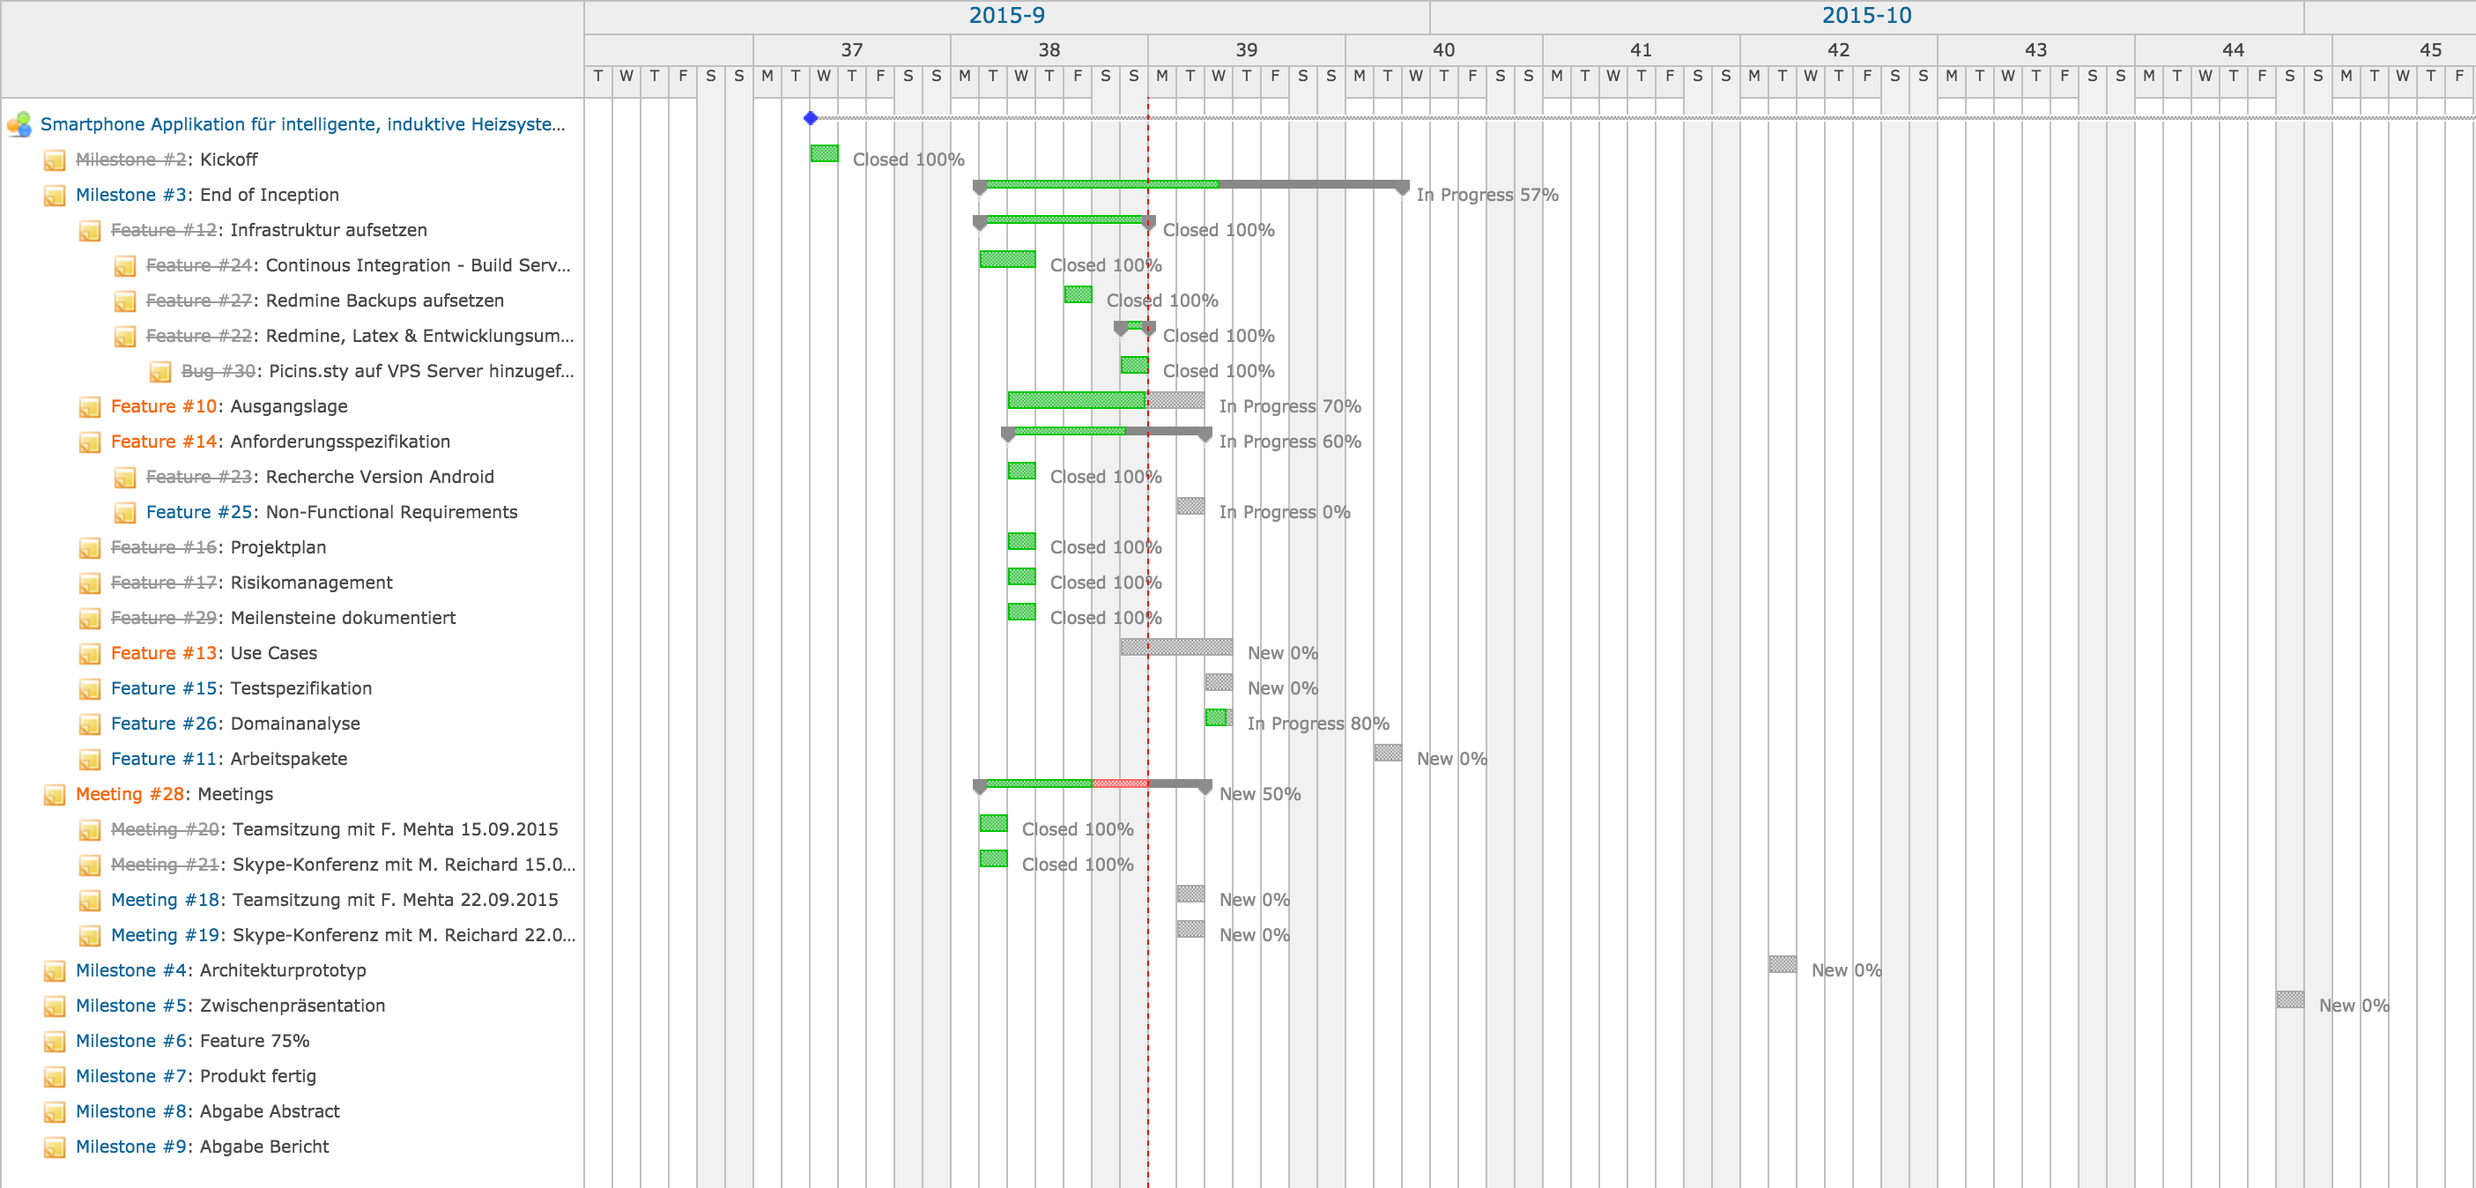
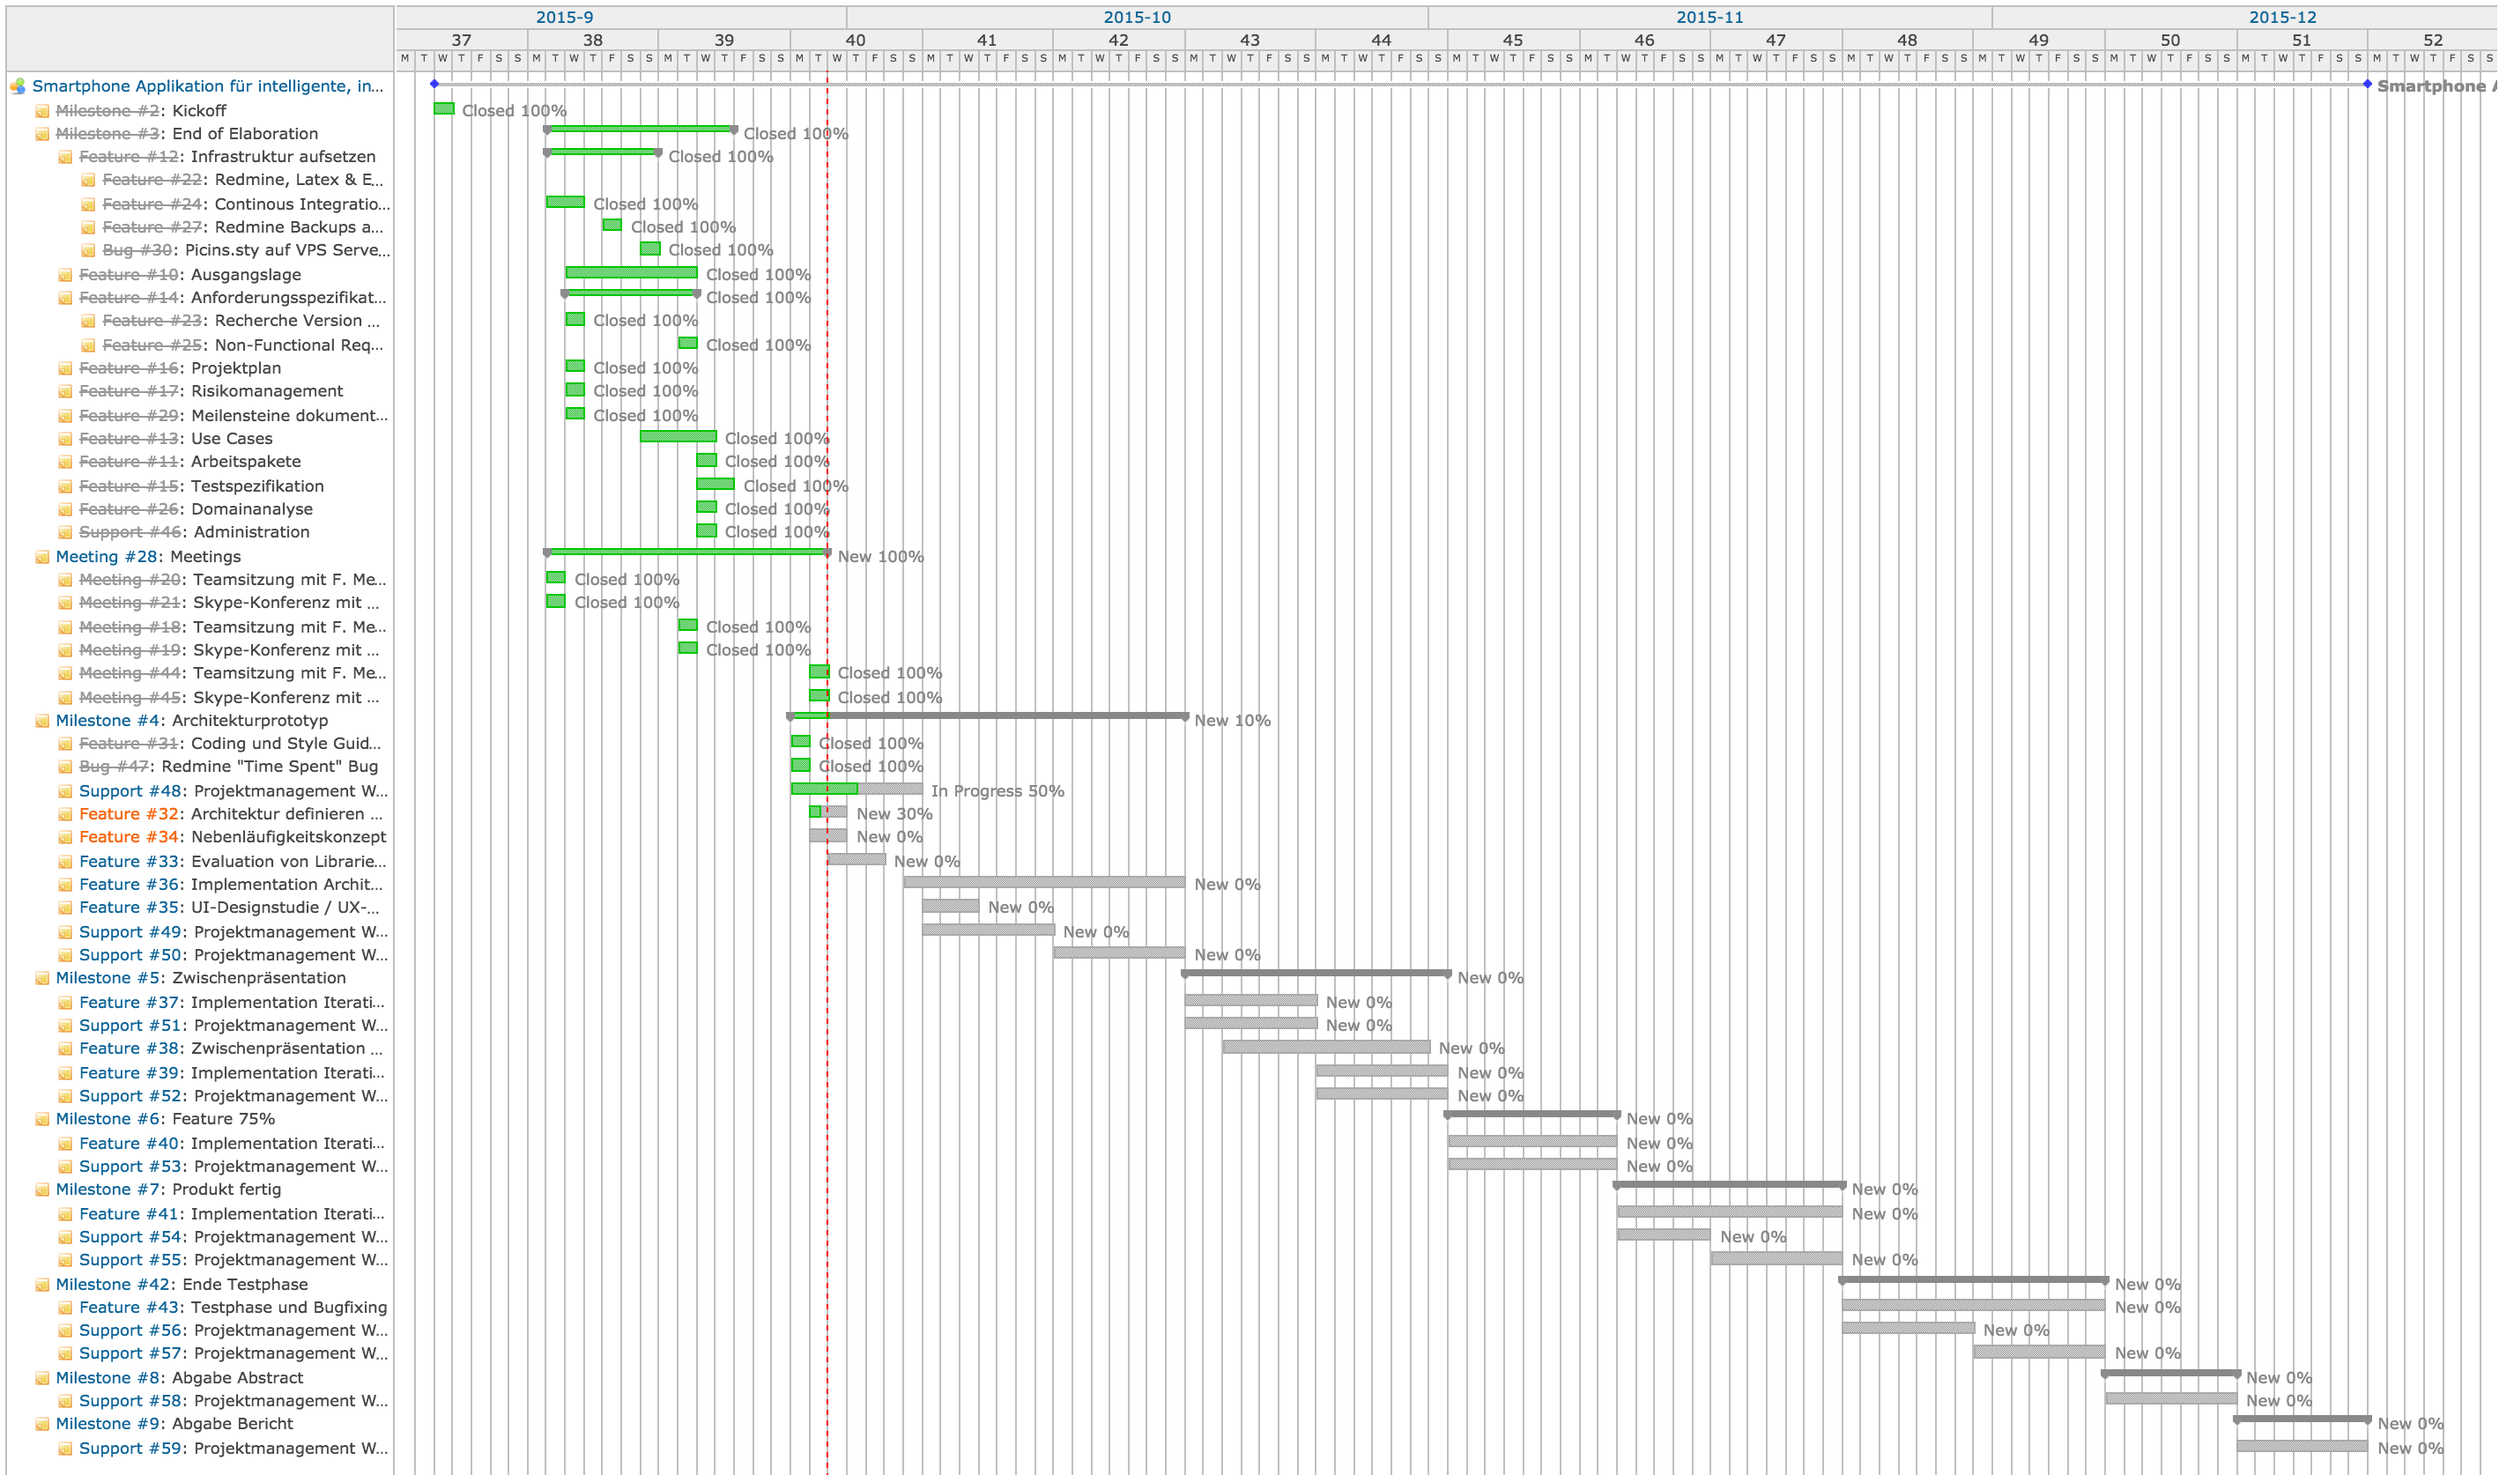
Phase "End of Inception" replaced through "End of Elaboration" according to meeting 29.09. Refreshed Projektplan image.

Changed region(s): [[0.0, 0.0, 1.0, 1.0]]

diff --git a/projectmanagement/meilensteine.tex b/projectmanagement/meilensteine.tex
@@ -8,7 +8,7 @@
 \begin{tabularx}{\textwidth}{ c | l | X | l}
 \textbf{MS} & \textbf{Name} & \textbf{Resultate}  & \textbf{Datum} \\ \hline
 MS1 & Kickoff              & Aufgabenstellung & 09.09.2015 \\ \hline
-MS2 & Ende Inception       & Infrastruktur, Ausgangslage, Anforderungsspezifikation, Projektplan, Risikomanagement, Use Cases, Testspezifikation, Domainanalyse, Arbeitspakete	& 29.09.2015 \\ \hline
+MS2 & Ende Elaboration       & Infrastruktur, Ausgangslage, Anforderungsspezifikation, Projektplan, Risikomanagement, Use Cases, Testspezifikation, Domainanalyse, Arbeitspakete	& 29.09.2015 \\ \hline
 MS3 & Architekturprototyp  & Prototyp mit Grundfunktionalität der Applikation	& 13.10.2015 \\ \hline
 MS4 & Zwischenpräsentation & Kunde und Experte informiert & 26-31.10.2015 \\ \hline
 MS5 & Feature 75\%         & 75\% aller Features erarbeitet & 10.11.2015 \\ \hline

diff --git a/projectmanagement/risikomanagement.tex b/projectmanagement/risikomanagement.tex
@@ -37,7 +37,7 @@ Vorgehen beim Eintreffen & Die maximale Zahl von Geräten pro Küche reduzieren.
 \hline
 Beschreibung & Es ist nicht möglich Unterstützung für Bluetooth Classic und 4.0 in der gleichen Applikation anzubieten.\\
 \hline
-Massnahme & In der Inception Phase wird die Bluetooth Unterstützung von Android recherchiert. Es wird nach Möglichkeit eine Android Version gewählt die beide Bluetooth Standards unterstützt.\\
+Massnahme & In der Elaboration Phase wird die Bluetooth Unterstützung von Android recherchiert. Es wird nach Möglichkeit eine Android Version gewählt die beide Bluetooth Standards unterstützt.\\
 \hline
 Vorgehen beim Eintreffen & Es wird nur Unterstützung für Bluetooth Classic angeboten.
 \\
